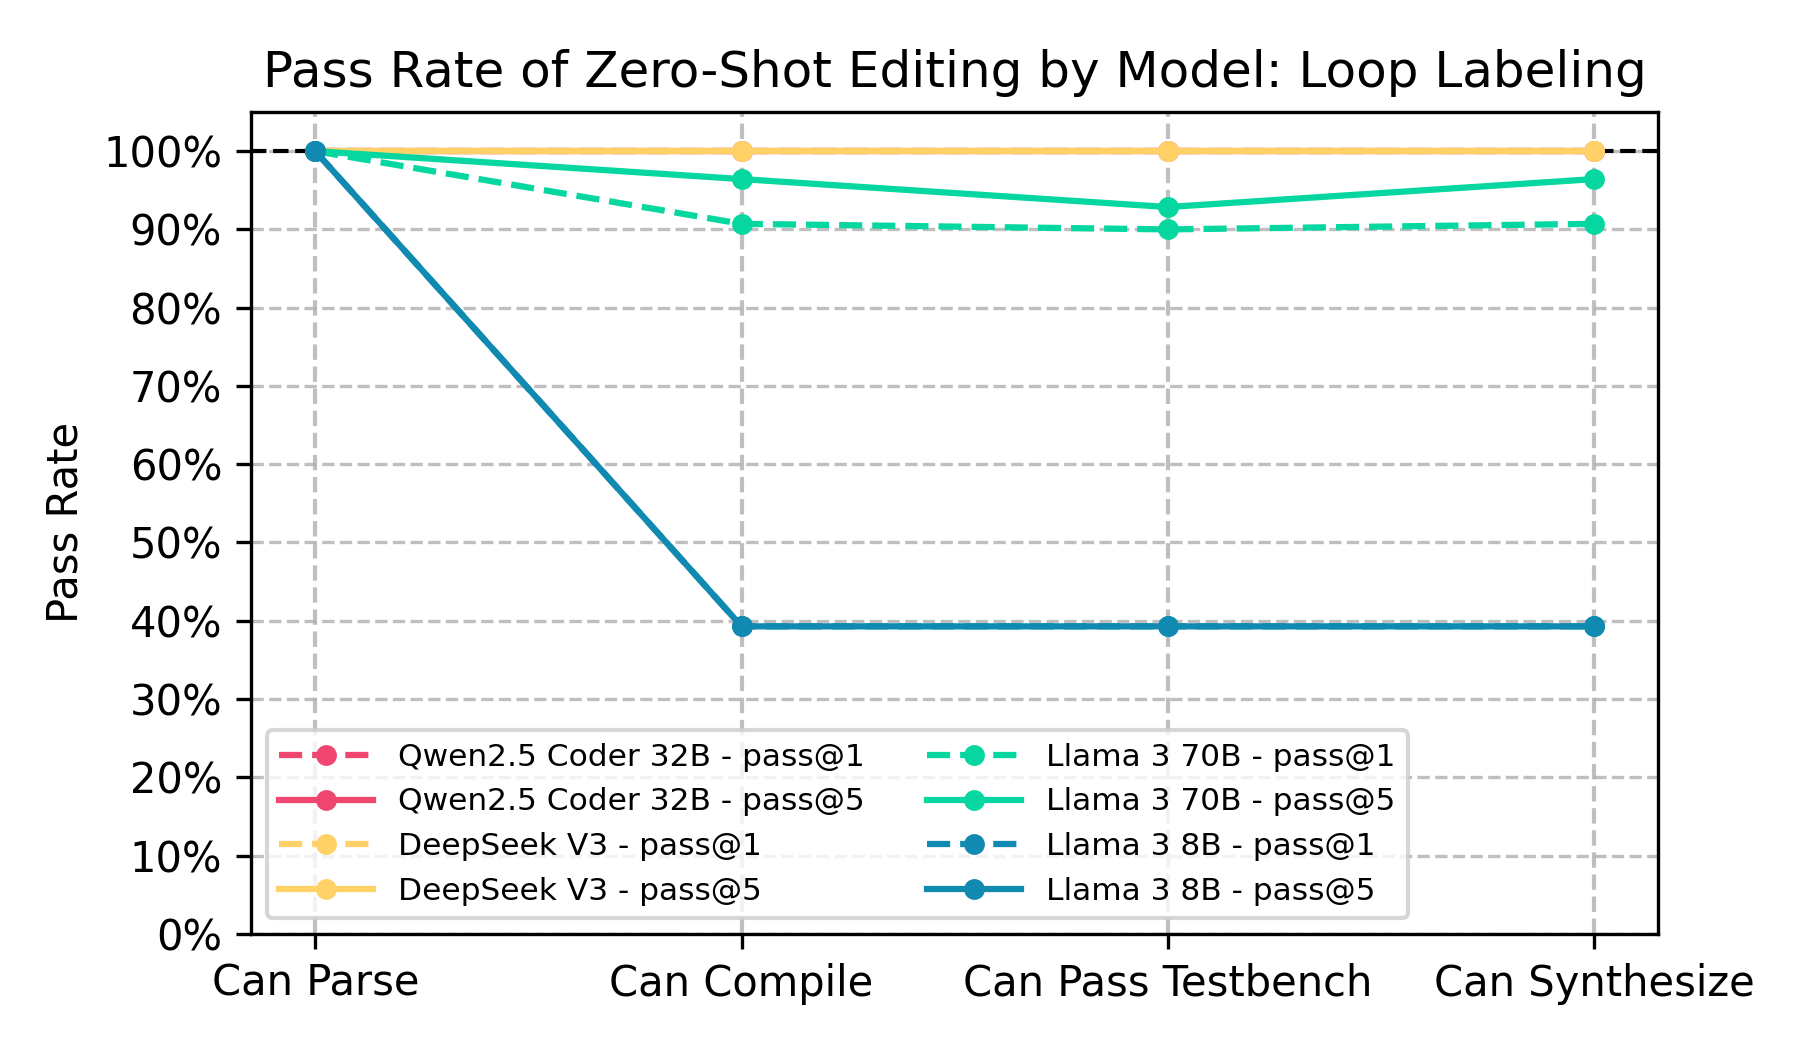
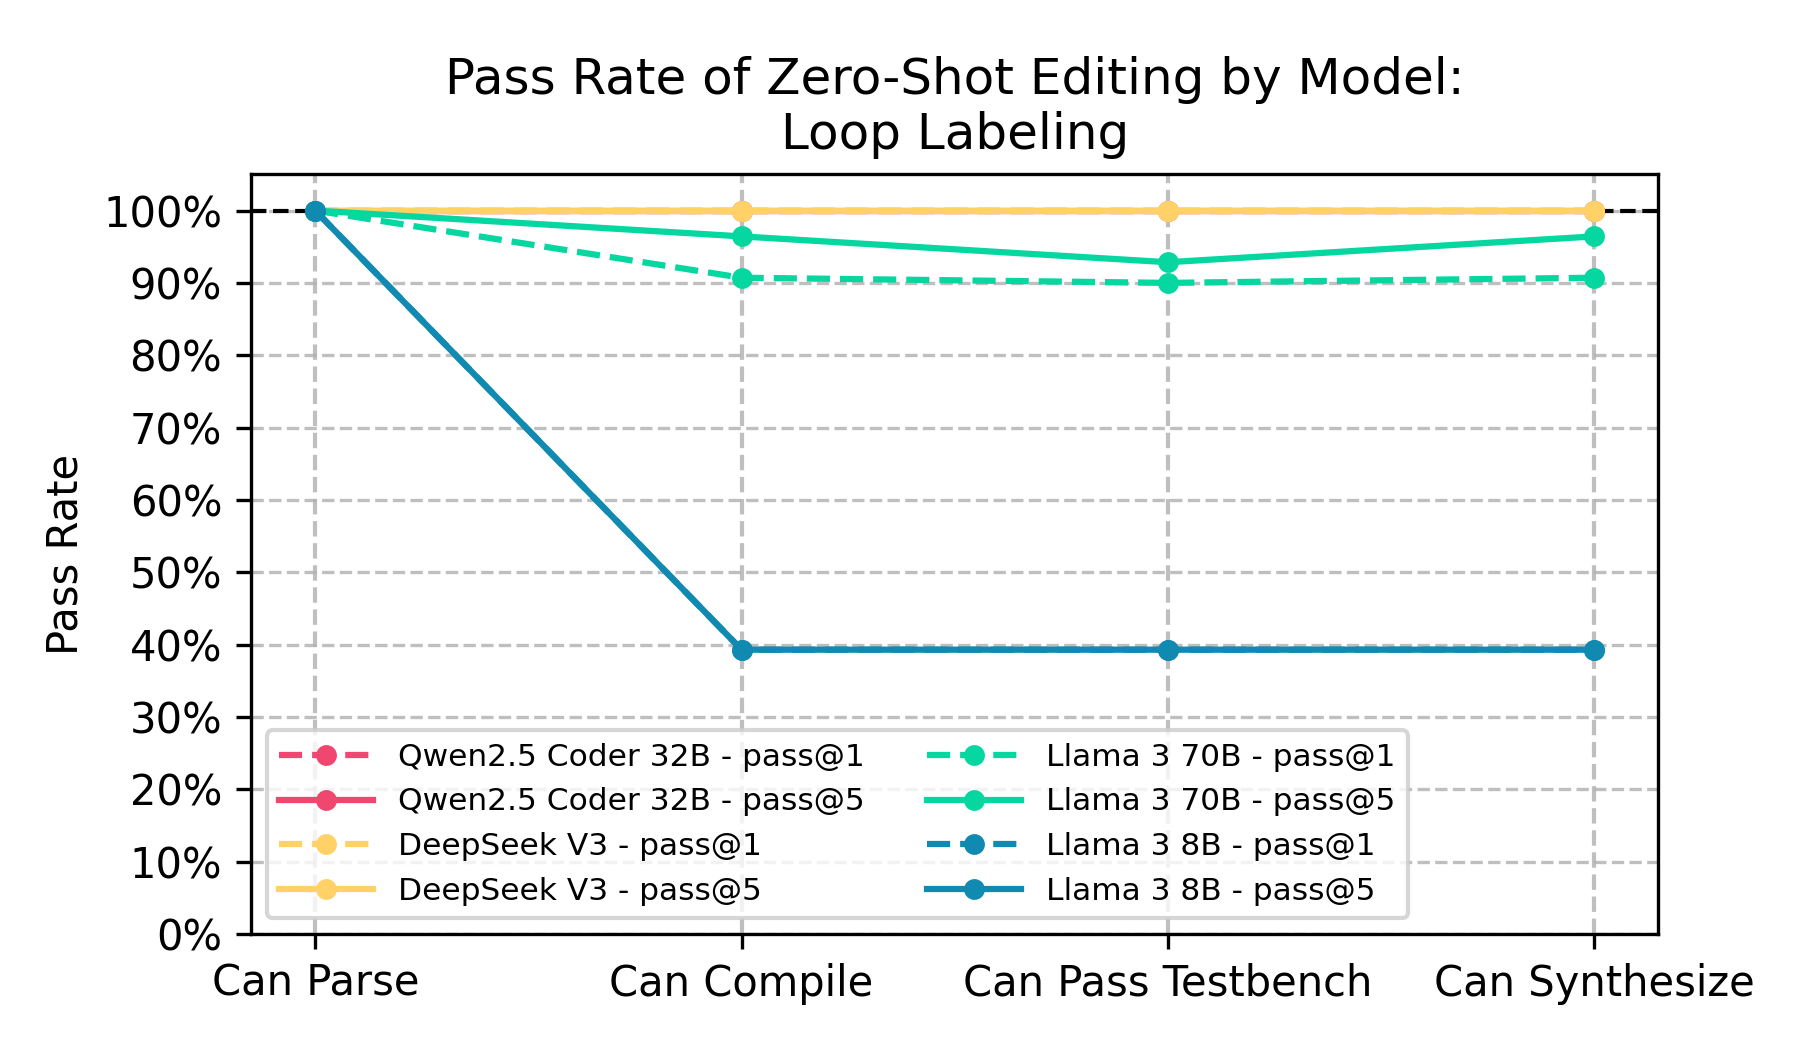
updates to figure layout

diff --git a/hls_eval_experiments/hls_inference_scaling/analyze.py b/hls_eval_experiments/hls_inference_scaling/analyze.py
@@ -99,8 +99,8 @@ for model_name in df_pass_rates_synth_only["model_name"].unique():
         color=model_color_map[model_name],
     )
 
-ax.set_xlabel("$k$ - Num. Samples")
-ax.set_ylabel("Pass Rate - HLS Synthesis Stage")
+ax.set_xlabel("Number of Samples ($k$)")
+ax.set_ylabel("Pass Rate at HLS Synthesis Stage")
 ax.set_title("Inference Scaling of HLS Editing Task:\nDataflow Refactoring")
 ax.legend(loc="upper center", ncol=2, fontsize="small")
 

diff --git a/hls_eval_experiments/hls_edit_zero_shot__dataflow/analyze.py b/hls_eval_experiments/hls_edit_zero_shot__dataflow/analyze.py
@@ -78,6 +78,6 @@ fig.savefig(DIR_FIGURES / "pass_rates.png", dpi=300)
 
 
 fig = plot_pass_rates_line(
-    df_pass_rates, "Pass Rate of Zero-Shot Editing by Model: Dataflow Refactoring"
+    df_pass_rates, "Pass Rate of Zero-Shot Editing by Model:\nDataflow Refactoring"
 )
 fig.savefig(DIR_FIGURES / "pass_rates_line.png", dpi=300)

diff --git a/hls_eval_experiments/hls_edit_zero_shot__label/analyze.py b/hls_eval_experiments/hls_edit_zero_shot__label/analyze.py
@@ -82,6 +82,6 @@ fig.savefig(DIR_FIGURES / "pass_rates.png", dpi=300)
 
 
 fig = plot_pass_rates_line(
-    df_pass_rates, "Pass Rate of Zero-Shot Editing by Model: Loop Labeling"
+    df_pass_rates, "Pass Rate of Zero-Shot Editing by Model:\nLoop Labeling"
 )
 fig.savefig(DIR_FIGURES / "pass_rates_line.png", dpi=300)

diff --git a/hls_eval_experiments/hls_edit_zero_shot__loop_tile/analyze.py b/hls_eval_experiments/hls_edit_zero_shot__loop_tile/analyze.py
@@ -82,6 +82,6 @@ fig.savefig(DIR_FIGURES / "pass_rates.png", dpi=300)
 
 
 fig = plot_pass_rates_line(
-    df_pass_rates, "Pass Rate of Zero-Shot Editing by Model: Loop Tiling"
+    df_pass_rates, "Pass Rate of Zero-Shot Editing by Model:\nLoop Tiling"
 )
 fig.savefig(DIR_FIGURES / "pass_rates_line.png", dpi=300)
